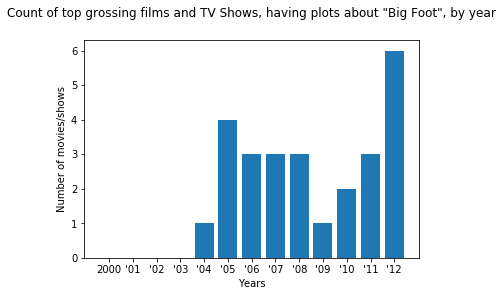
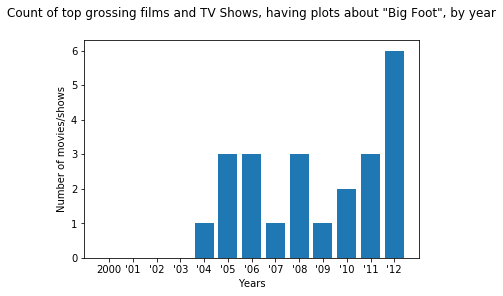
sixth commit

Changed region(s): [[0.507, 0.5169, 0.5666, 0.7601], [0.4175, 0.3953, 0.4771, 0.5169]]

diff --git a/FalcorSharon/README.bigfoot.md b/FalcorSharon/README.bigfoot.md
@@ -33,7 +33,7 @@ for x in range(6):
 
 
 ```python
-url_tv = "https://api.themoviedb.org/3/discover/tv?&api_key="+api_key+"&page="+str(x+1)+"&with_keywords=9738|9951"
+url_tv = "https://api.themoviedb.org/3/discover/tv?&api_key="+api_key+"&page="+str(x+1)+"&with_keywords=2597|227007"
 response_tv = requests.get(url_tv)
 data_tv = response_tv.json() 
 for x in range(len(data_tv["results"])):
@@ -127,17 +127,17 @@ movie_df.head()
     </tr>
     <tr>
       <th>3</th>
-      <td>01</td>
-      <td>A documentary that explores the existence of B...</td>
-      <td>Manbeast! Myth or Monster?</td>
-      <td>1978</td>
-    </tr>
-    <tr>
-      <th>4</th>
       <td>06</td>
       <td>Mark the Lumberjack is a woodsman with a bad t...</td>
       <td>The Lumberjack of All Trades</td>
       <td>2006</td>
+    </tr>
+    <tr>
+      <th>4</th>
+      <td>01</td>
+      <td>A documentary that explores the existence of B...</td>
+      <td>Manbeast! Myth or Monster?</td>
+      <td>1978</td>
     </tr>
   </tbody>
 </table>
@@ -170,7 +170,7 @@ bin_labels = ["before 1959","1960s","1970s","1980s","1990s","2000","'01","'02","
 ```python
 year_df["Decade"] = pd.cut(year_df["Year"],bins,labels=bin_labels)
 movies_by_year = year_df.groupby(year_df["Decade"],as_index=False).sum()
-movies_by_year.tail()
+movies_by_year
 ```
 
 
@@ -200,6 +200,90 @@ movies_by_year.tail()
     </tr>
   </thead>
   <tbody>
+    <tr>
+      <th>0</th>
+      <td>before 1959</td>
+      <td>0</td>
+      <td>0</td>
+    </tr>
+    <tr>
+      <th>1</th>
+      <td>1960s</td>
+      <td>1968</td>
+      <td>1</td>
+    </tr>
+    <tr>
+      <th>2</th>
+      <td>1970s</td>
+      <td>13831</td>
+      <td>14</td>
+    </tr>
+    <tr>
+      <th>3</th>
+      <td>1980s</td>
+      <td>7939</td>
+      <td>5</td>
+    </tr>
+    <tr>
+      <th>4</th>
+      <td>1990s</td>
+      <td>7985</td>
+      <td>7</td>
+    </tr>
+    <tr>
+      <th>5</th>
+      <td>2000</td>
+      <td>0</td>
+      <td>0</td>
+    </tr>
+    <tr>
+      <th>6</th>
+      <td>'01</td>
+      <td>0</td>
+      <td>0</td>
+    </tr>
+    <tr>
+      <th>7</th>
+      <td>'02</td>
+      <td>0</td>
+      <td>0</td>
+    </tr>
+    <tr>
+      <th>8</th>
+      <td>'03</td>
+      <td>0</td>
+      <td>0</td>
+    </tr>
+    <tr>
+      <th>9</th>
+      <td>'04</td>
+      <td>2004</td>
+      <td>1</td>
+    </tr>
+    <tr>
+      <th>10</th>
+      <td>'05</td>
+      <td>2005</td>
+      <td>3</td>
+    </tr>
+    <tr>
+      <th>11</th>
+      <td>'06</td>
+      <td>2006</td>
+      <td>3</td>
+    </tr>
+    <tr>
+      <th>12</th>
+      <td>'07</td>
+      <td>2007</td>
+      <td>1</td>
+    </tr>
+    <tr>
+      <th>13</th>
+      <td>'08</td>
+      <td>2008</td>
+      <td>3</td>
+    </tr>
     <tr>
       <th>14</th>
       <td>'09</td>
